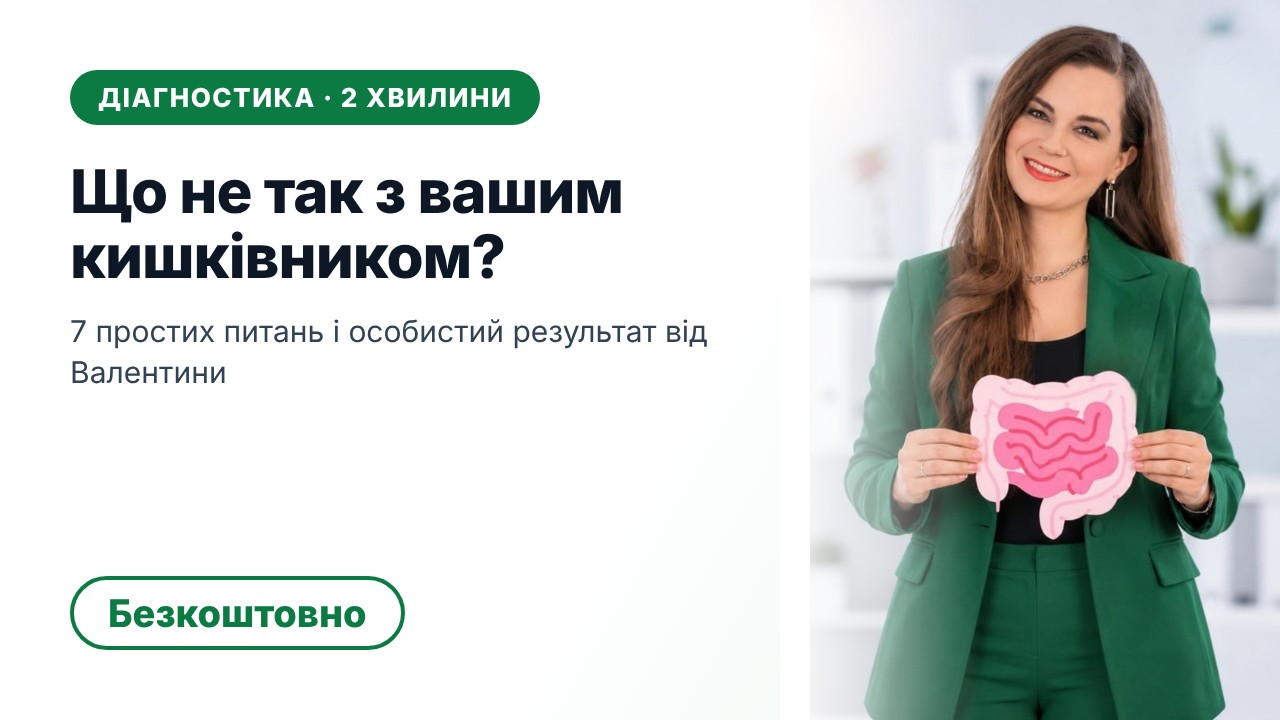
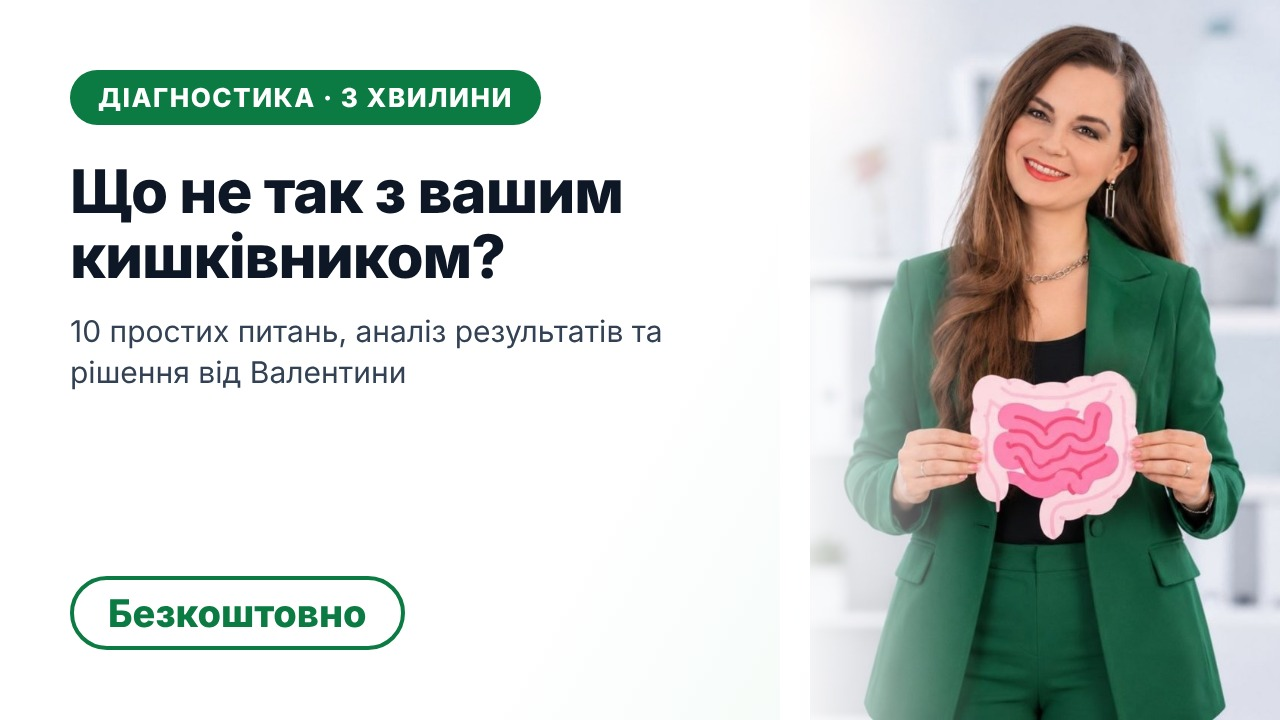
Діагностика: питання жирним, картка «10 простих питань»
Claude-Session: https://claude.ai/code/session_01P95tyL1PPecuZWfpcGvJVw

Changed region(s): [[0.0625, 0.4278, 0.5625, 0.55], [0.25, 0.1222, 0.4062, 0.1528]]

diff --git a/changelog.py b/changelog.py
@@ -10,8 +10,9 @@ import db
 
 log = logging.getLogger("changelog")
 
-VERSION = "2026-11-12-1"
+VERSION = "2026-11-12-2"
 NOTES = [
+    "Діагностика: питання повністю жирним, на картці тепер «10 простих питань, аналіз результатів та рішення від Валентини»",
     "Інтенсив тепер триває 2 тижні, спецціна до 22.11 (у всіх повідомленнях, картках і в діагностиці)",
     "Нові тексти розділів «Для кого», «Що ви отримаєте» і нова програма з 14 тем",
     "Назви розділів великими літерами, кнопка «Поставити питання» замість «Запитати у Валентини»",

diff --git a/quiz.py b/quiz.py
@@ -90,7 +90,7 @@ def kb_q(i):
 
 
 def q_text(i):
-    return f"<code>Питання {i + 1} з {len(QUESTIONS)}</code>\n\n{QUESTIONS[i][0]}"
+    return f"<code>Питання {i + 1} з {len(QUESTIONS)}</code>\n\n<b>{QUESTIONS[i][0].replace('<b>', '').replace('</b>', '')}</b>"  # 12.11: питання повністю жирним
 
 
 def result(ans):
